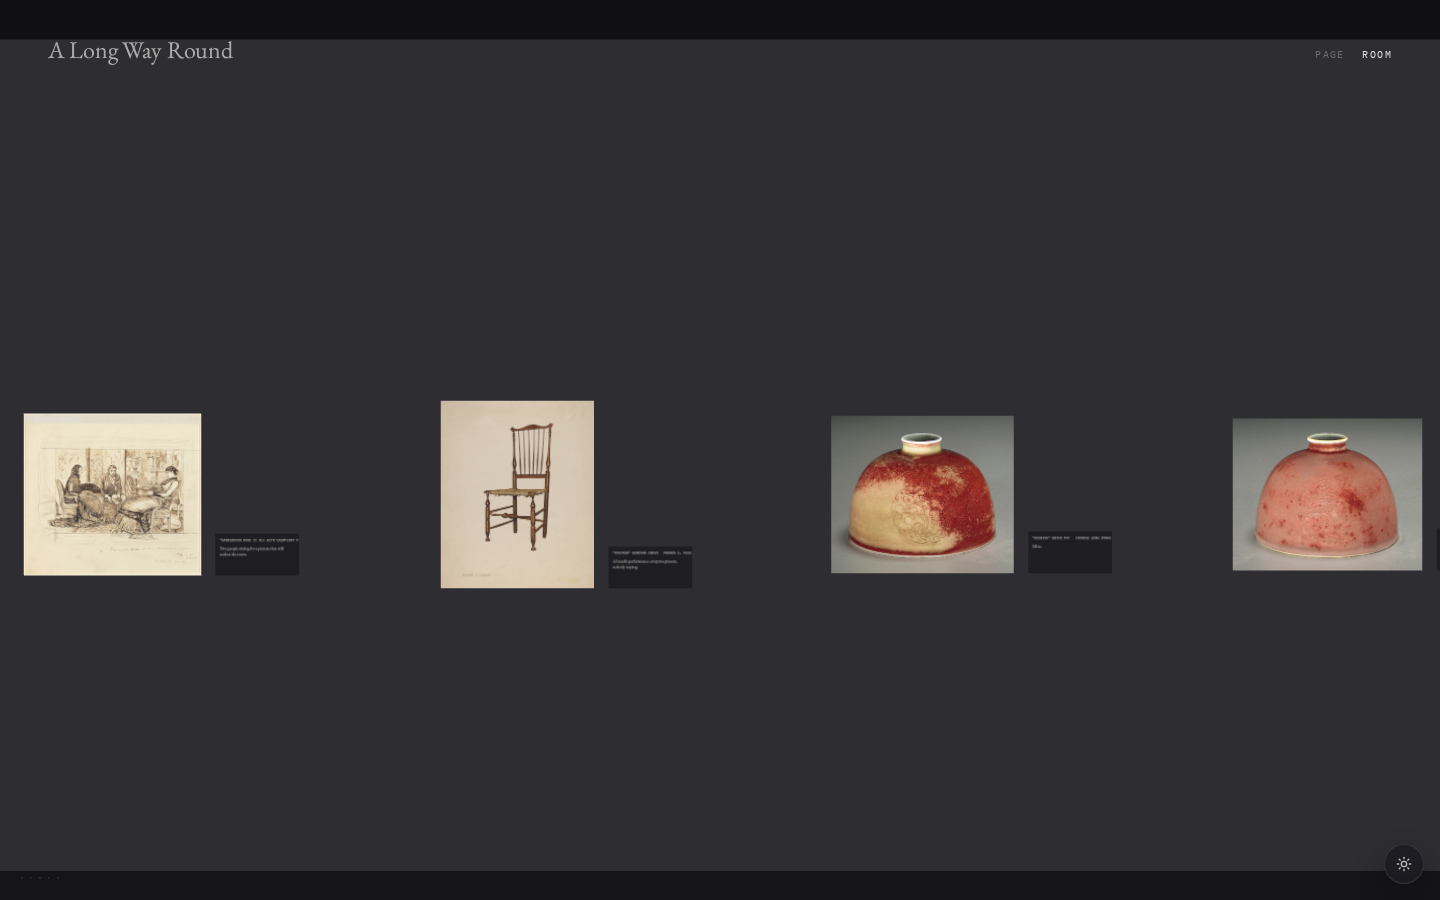
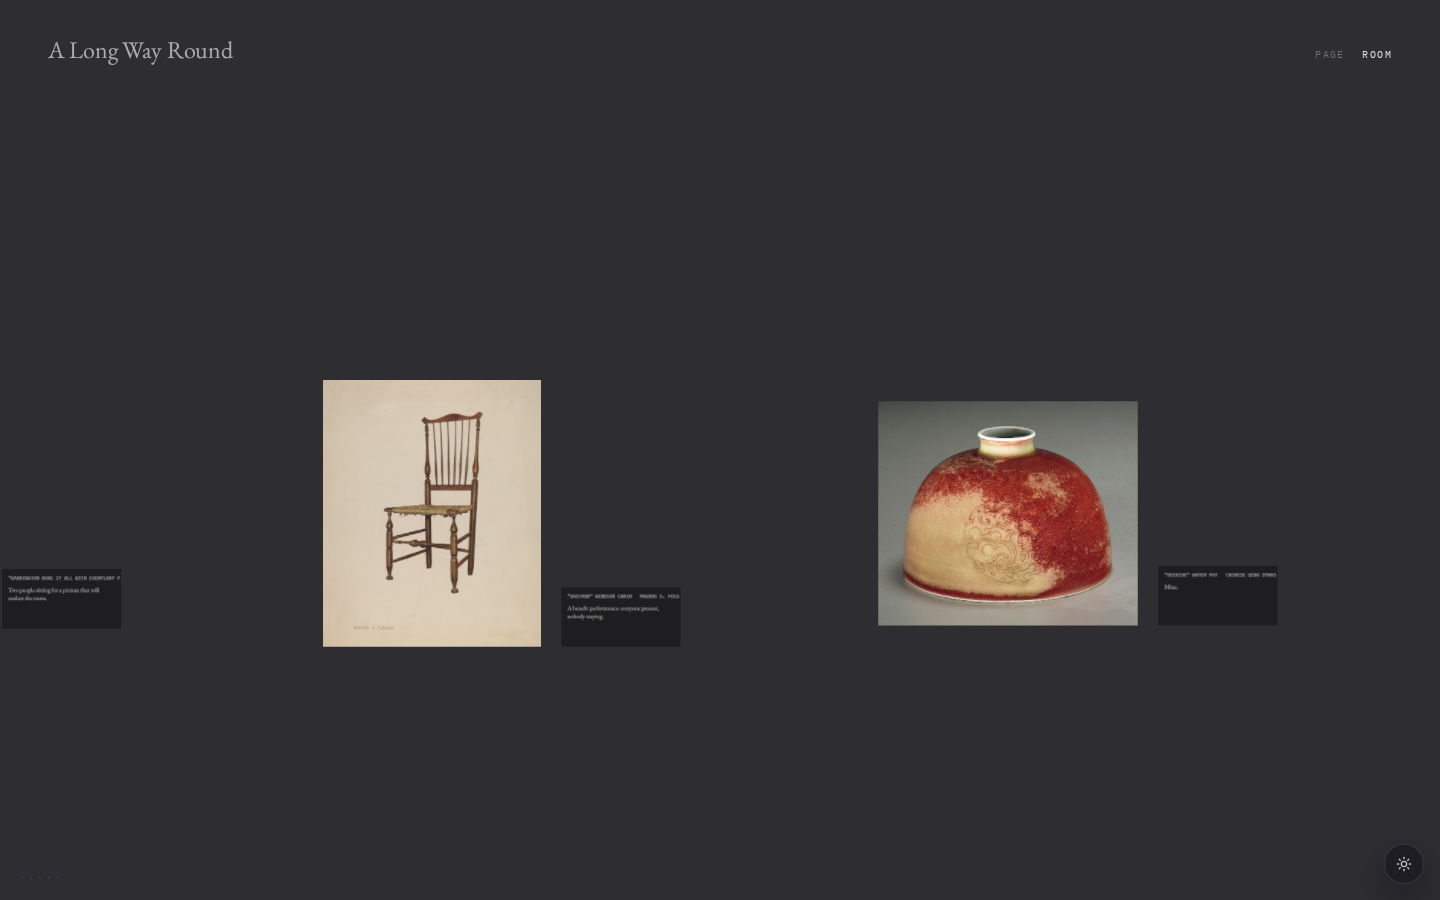
fix(room): walking to a work and staying there, and the demo path that found it
Running the whole visit end to end, rather than each beat on its own, found
three things that each work alone and do not compose.

**Closing a wall label teleported you back across the room.** Focusing was
modelled as an excursion — go and look, then return to where you were. That is
wrong about how a gallery works: you walk over to a picture and you are then
*there*, and leaning back does not put you at the far door again. It also
produced a stranger symptom, which is how it was noticed: the room the scene
reported standing in changed while a work was focused and changed back a
second later, so anything reading the position saw the visitor in two places.
Focusing now sets where the visitor is standing — the last legal point on the
way to the work, since the viewing distance for a small print is inside the
wall standoff — and closing the label returns to that, still facing the work.

**A key pressed during a glide did nothing.** `step` and `turn` wrote the
camera directly while the frame loop was still interpolating an earlier move,
which overwrote them a frame later. Half a second after clicking the floor, or
after closing a label, the room ignored the keyboard. It reads exactly like a
dropped keypress and it is why the demo path could click a picture and then
walk nowhere. Both cancel the move now.

**`scripts/room-demo-path.ts`** is the check, and it is checked in. Twenty-five
steps, every one an action a visitor performs — open the link cold, click ROOM,
[…]

diff --git a/apps/web/scripts/room-demo-path.ts b/apps/web/scripts/room-demo-path.ts
@@ -1,0 +1,183 @@
+/**
+ * The room's demo path, end to end, against whatever is deployed.
+ *
+ * Run repeatedly. Every step is what a visitor does — open a URL, click a
+ * word, click a picture, press a key — and every claim is checked rather than
+ * described. It throws on the first thing that is not true, so a green run is
+ * the whole path and a red one names the beat that broke.
+ *
+ *   PAILLETTE_ORIGIN=https://paillette-stg.berlayar.ai \
+ *   CODE=u4G4Gkv pnpm --filter web exec tsx scripts/room-demo-path.ts
+ *
+ * The scene publishes its own position and texture accounting on
+ * `window.__paillette_room`. That is a readout — the only way to get a number
+ * out of a render loop — and nothing in the product reads it. No step below is
+ * driven through it.
+ */
+
+import { chromium, type Page } from '@playwright/test';
+
+const ORIGIN = process.env.PAILLETTE_ORIGIN ?? 'http://localhost:5199';
+/** A published show with two named regions. */
+const CODE = process.env.CODE ?? 'u4G4Gkv';
+/** A show published before regions existed, which must be unaffected. */
+const PLAIN_CODE = process.env.PLAIN_CODE ?? 'MKwsxHy';
+
+interface Stats {
+  fps: number;
+  textureBytes: number;
+  nearCount: number;
+  roomIndex: number;
+  roomCount: number;
+  roomName: string | null;
+  metresIntoRoom: number;
+}
+
+const stats = (page: Page) =>
+  page.evaluate(
+    () => (window as Window & { __paillette_room?: Stats }).__paillette_room ?? null
+  );
+
+let step = 0;
+const check = (claim: string, actual: unknown, expected?: unknown) => {
+  step += 1;
+  const ok = expected === undefined ? Boolean(actual) : actual === expected;
+  console.log(
+    `  ${ok ? 'ok  ' : 'FAIL'} ${String(step).padStart(2)}. ${claim.padEnd(52)} ${String(actual)}`
+  );
+  if (!ok) throw new Error(`${claim}: expected ${String(expected)}, got ${String(actual)}`);
+};
+
+const enterRoom = async (page: Page) => {
+  await page.getByRole('link', { name: 'Room', exact: true }).click();
+  await page.locator('canvas.exhibition-room-canvas').waitFor({ state: 'visible' });
+  await page.waitForTimeout(9000);
+};
+
+/** Click across the wall until a label opens. A visitor hunts too. */
+const clickAWork = async (page: Page) => {
+  const box = (await page.locator('canvas.exhibition-room-canvas').boundingBox())!;
+  const focus = page.locator('.exhibition-room-focus');
+  for (const fy of [0.53, 0.5, 0.56]) {
+    for (const fx of [0.4, 0.6, 0.3, 0.7, 0.2, 0.8]) {
+      await page.mouse.click(box.x + box.width * fx, box.y + box.height * fy);
+      await page.waitForTimeout(450);
+      if (await focus.isVisible()) return true;
+    }
+  }
+  return false;
+};
+
+const walkInto = async (page: Page, room: number) => {
+  await page
+    .locator('canvas.exhibition-room-canvas')
+    .click({ position: { x: 40, y: 40 } });
+  for (let press = 0; press < 80; press += 1) {
+    const now = await stats(page);
+    if (now && now.roomIndex === room && now.metresIntoRoom >= 2.9) break;
+    await page.keyboard.press('ArrowUp');
+    await page.waitForTimeout(90);
+  }
+  await page.waitForTimeout(2500);
+};
+
+const main = async () => {
+  const browser = await chromium.launch({ args: ['--enable-unsafe-swiftshader'] });
+  const context = await browser.newContext({ viewport: { width: 1440, height: 900 } });
+  const page = await context.newPage();
+  const errors: string[] = [];
+  page.on('pageerror', (error) => errors.push(String(error).slice(0, 200)));
+
+  console.log(`\n${ORIGIN}  code ${CODE}\n`);
+
+  // 1 — the link, opened cold, by someone who has never used any of this.
+  await page.goto(`${ORIGIN}/e/${CODE}`, { waitUntil: 'networkidle' });
+  check('a cold short link opens the flat page', await page.locator('main.exhibition-page').isVisible(), true);
+  check('the works are on it', await page.locator('.exhibition-work').count() > 0, true);
+  check('no canvas was created', await page.locator('canvas.exhibition-room-canvas').count(), 0);
+
+  // 2 — the choice. Two words, and the room is the one you have to ask for.
+  check('PAGE is offered', await page.getByRole('link', { name: 'Page', exact: true }).count(), 1);
+  check('ROOM is offered', await page.getByRole('link', { name: 'Room', exact: true }).count(), 1);
+  await enterRoom(page);
+  check('the room is at the shareable URL', page.url(), `${ORIGIN}/e/${CODE}?v=room`);
+
+  // 3 — the show's own architecture, from its own regions.
+  const opened = (await stats(page))!;
+  check('the show was built as named rooms', opened.roomCount > 1, true);
+  check('the visitor starts in the first one', opened.roomName, 'The Working Harbor');
+  check('every work has a texture', opened.nearCount > 0, true);
+
+  // 4 — walking, on the keyboard alone, into the second named room.
+  await walkInto(page, 1);
+  const second = (await stats(page))!;
+  check('walking arrives in the second named room', second.roomName, 'The Empty Shore');
+  check('and well inside it, not in the doorway', second.metresIntoRoom >= 2.9, true);
+
+  // 5 — the beat: stand in front of a work and the label arrives.
+  check('clicking a work opens its wall label', await clickAWork(page), true);
+  const label = await page
+    .locator('.exhibition-room-focus .exhibition-label')
+    .innerText();
+  check('the label is the one written for this show', label.length > 0, true);
+  check(
+    'who wrote it is ink, not a word',
+    (await page
+      .locator('.exhibition-room-focus .exhibition-label')
+      .getAttribute('data-provenance')) !== null,
+    true
+  );
+  check(
+    'the panel says nothing about the room',
+    (await page.locator('.exhibition-room-focus').innerText())
+      .toLowerCase()
+      .includes('click'),
+    false
+  );
+
+  // Closing the label leaves the visitor in front of the work rather than
+  // teleporting them back to wherever they were before they approached it.
+  const atWork = (await stats(page))!;
+  await page.keyboard.press('Escape');
+  await page.waitForTimeout(1400);
+  const afterEscape = (await stats(page))!;
+  check(
+    'closing the label leaves you where you walked to',
+    Math.abs(afterEscape.metresIntoRoom - atWork.metresIntoRoom) < 1.2,
+    true
+  );
+  check('and in the same room', afterEscape.roomIndex, atWork.roomIndex);
+  check('the label is gone', await page.locator('.exhibition-room-focus').count(), 0);
+
+  // 6 — the budget, after all of that.
+  const spent = (await stats(page))!;
+  check(
+    'texture use is under the 96 MiB ceiling',
+    spent.textureBytes < 96 * 1024 * 1024,
+    true
+  );
+  check('no more than six works at full resolution', spent.nearCount <= 6, true);
+  console.log(
+    `       ${(spent.textureBytes / 1024 / 1024).toFixed(1)} MiB of texture, ${spent.nearCount} at full resolution, ${spent.fps} fps`
+  );
+
+  // 7 — back out, and the flat page is exactly the page.
+  await page.getByRole('link', { name: 'Page', exact: true }).click();
+  await page.waitForTimeout(1500);
+  check('PAGE returns to the plain URL', page.url(), `${ORIGIN}/e/${CODE}`);
+  check('the flat page is intact', await page.locator('.exhibition-work').count() > 0, true);
+
+  // 8 — a show published before regions existed is untouched by any of it.
+  await page.goto(`${ORIGIN}/e/${PLAIN_CODE}?v=room`, { waitUntil: 'networkidle' });
+  await page.locator('canvas.exhibition-room-canvas').waitFor({ state: 'visible' });
+  await page.waitForTimeout(8000);
+  const plain = (await stats(page))!;
+  check('an older show still opens in the room', plain.nearCount > 0, true);
+  check('and is one unnamed room', plain.roomName, null);
+
+  check('nothing threw on any page', errors.length, 0);
+  console.log('');
+  await browser.close();
+};
+
+void main();

diff --git a/apps/web/app/components/exhibition/room/room-scene.ts b/apps/web/app/components/exhibition/room/room-scene.ts
@@ -841,6 +841,8 @@ export const createRoomScene = async (
   let yaw = 0;
   let pitch = 0;
   let standing = { x: plan.entry.x, z: plan.entry.z };
+  /** Where the visitor was looking before a work took the camera. */
+  let standingYaw = 0;
 
   interface Move {
     fromX: number;
@@ -913,6 +915,7 @@ export const createRoomScene = async (
     const destination = walkTowards(plan, standing, { x, z });
     if (destination.x === standing.x && destination.z === standing.z) return;
     standing = destination;
+    standingYaw = yaw;
     if (focused) setFocus(null, false);
     glideTo(destination.x, destination.z, EYE_HEIGHT_M, yaw, pitch, GLIDE_MS);
   };
@@ -929,14 +932,31 @@ export const createRoomScene = async (
       STEP_M
     );
     standing = next;
+    standingYaw = yaw;
+    /*
+     * The step cancels whatever the camera was in the middle of.
+     *
+     * Without this the step writes a position and the frame loop, still
+     * interpolating an earlier glide, writes over it — so a key pressed within
+     * half a second of clicking the floor, or of backing out of a work, does
+     * nothing at all. It looks exactly like a dropped keypress, and it is why
+     * the demo path could click a picture and then walk nowhere.
+     */
+    move = null;
     // A step is a step, not a glide: short enough that easing it would only
     // add latency between the key and the movement.
     camera.position.set(next.x, EYE_HEIGHT_M, next.z);
+    pitch = 0;
+    applyLook();
   };
 
   /** Turning always snaps. A swung turn is the part that makes people ill. */
   const turn = (direction: 1 | -1) => {
+    // Same reason as `step`: a turn during an unfinished glide is overwritten
+    // by it a frame later, and reads as a key the room ignored.
+    move = null;
     yaw += TURN_RADIANS * direction;
+    if (!focused) standingYaw = yaw;
     applyLook();
   };
 
@@ -945,8 +965,31 @@ export const createRoomScene = async (
     focused = artworkId;
     onFocus(artworkId);
 
+    /*
+     * Backing out of a work leaves you standing in front of it.
+     *
+     * The first version treated focusing as an excursion and returned the
+     * visitor to wherever they had been — so clicking a picture at the far end
+     * of a room and then closing the label teleported them back to the door,
+     * undoing travel they had asked for. In a gallery you walk over to a
+     * picture and you are then *there*; leaning back does not put you across
+     * the room again. So focusing sets where the visitor is standing, and
+     * exiting returns to that rather than to the past.
+     *
+     * Which also fixed the more confusing half: the room the scene reported
+     * standing in changed while a work was focused and changed back when it
+     * was closed, so anything reading the position saw the visitor in two
+     * places within a second.
+     */
     if (!artworkId) {
-      glideTo(standing.x, standing.z, EYE_HEIGHT_M, yaw, 0, animate ? FOCUS_MS : 0);
+      glideTo(
+        standing.x,
+        standing.z,
+        EYE_HEIGHT_M,
+        standingYaw,
+        0,
+        animate ? FOCUS_MS : 0
+      );
       return;
     }
 
@@ -978,6 +1021,14 @@ export const createRoomScene = async (
     const targetYaw = Math.atan2(normal.x, normal.z);
     const eye = Math.min(EYE_HEIGHT_M, entry.placement.y);
     const targetPitch = Math.atan2(entry.placement.y - eye, distance);
+    /*
+     * The camera may end up a little inside the wall standoff — a small work
+     * is looked at from closer than the room otherwise lets you stand — so
+     * where the visitor is left *standing* is the last legal point on the way
+     * there, and the lean-in is the difference between the two.
+     */
+    standing = walkTowards(plan, standing, { x, z });
+    standingYaw = targetYaw;
     glideTo(x, z, eye, targetYaw, targetPitch, animate ? FOCUS_MS : 0);
     void loadNear(entry);
   }
@@ -1012,6 +1063,9 @@ export const createRoomScene = async (
     if (!dragged) return;
     yaw -= dx * 0.0035;
     pitch = Math.max(-0.75, Math.min(0.75, pitch - dy * 0.0032));
+    // Looking around deliberately is the heading you keep; looking around
+    // because a work took the camera is not.
+    if (!focused) standingYaw = yaw;
     move = null;
     applyLook();
   };

diff --git a/apps/web/scripts/room-shots.ts b/apps/web/scripts/room-shots.ts
@@ -253,6 +253,32 @@ const main = async () => {
   }
   await shot(page, 'regions-second', { room: 1, wellInside: true });
 
+  /*
+   * ---- the same thing, over a published short code -------------------------
+   *
+   * The self-contained link above carries its regions in the URL. This is the
+   * link people actually share, and until recently it flattened a grouped show
+   * into one enfilade. `CODE` is a show published through the ordinary
+   * endpoint with two named regions.
+   */
+  const code = process.env.CODE;
+  if (code) {
+    await page.goto(`${ORIGIN}/e/${code}?v=room`, { waitUntil: 'networkidle' });
+    await page.locator('canvas.exhibition-room-canvas').waitFor({ state: 'visible' });
+    await settle(page);
+    const opened = await readStats(page);
+    if (opened?.roomName !== 'The Working Harbor') {
+      throw new Error(`short code: expected the first named room, got ${opened?.roomName}`);
+    }
+    await shot(page, 'shortcode-regions-first', { room: 0 });
+    await walkInto(page, 1);
+    const next = await readStats(page);
+    if (next?.roomName !== 'The Empty Shore') {
+      throw new Error(`short code: expected the second named room, got ${next?.roomName}`);
+    }
+    await shot(page, 'shortcode-regions-second', { room: 1, wellInside: true });
+  }
+
   // ---- the empty case: the room with nothing hung in it ---------------------
   const blind = await browser.newContext({ viewport: { width: 1440, height: 900 } });
   const blindPage = await blind.newPage();
